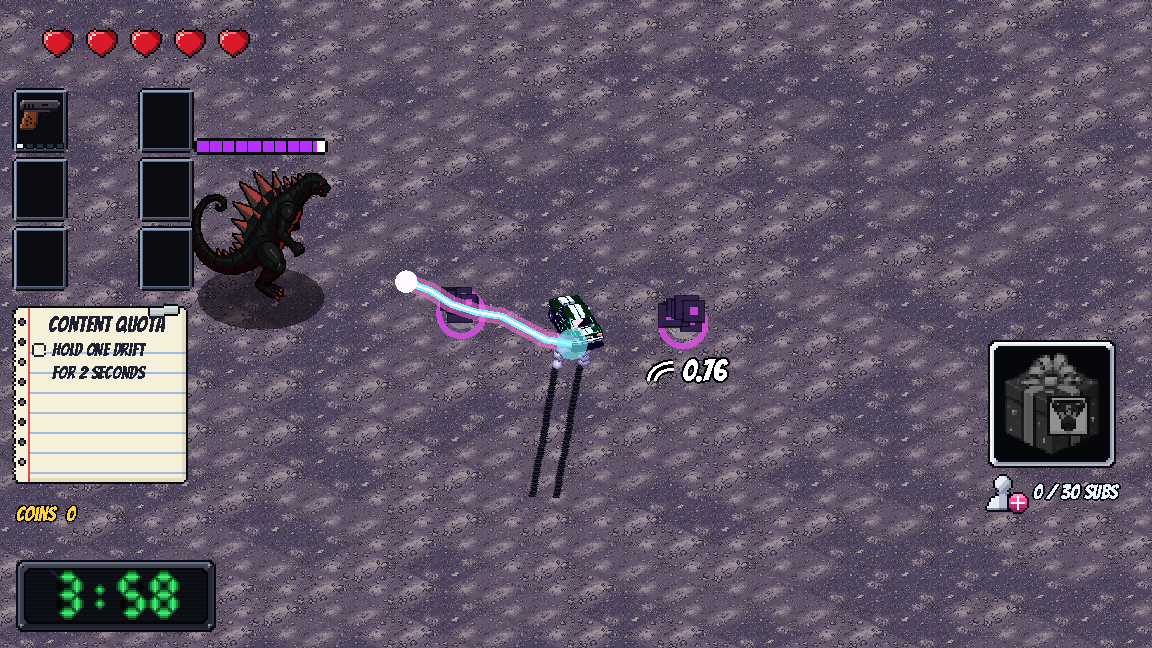
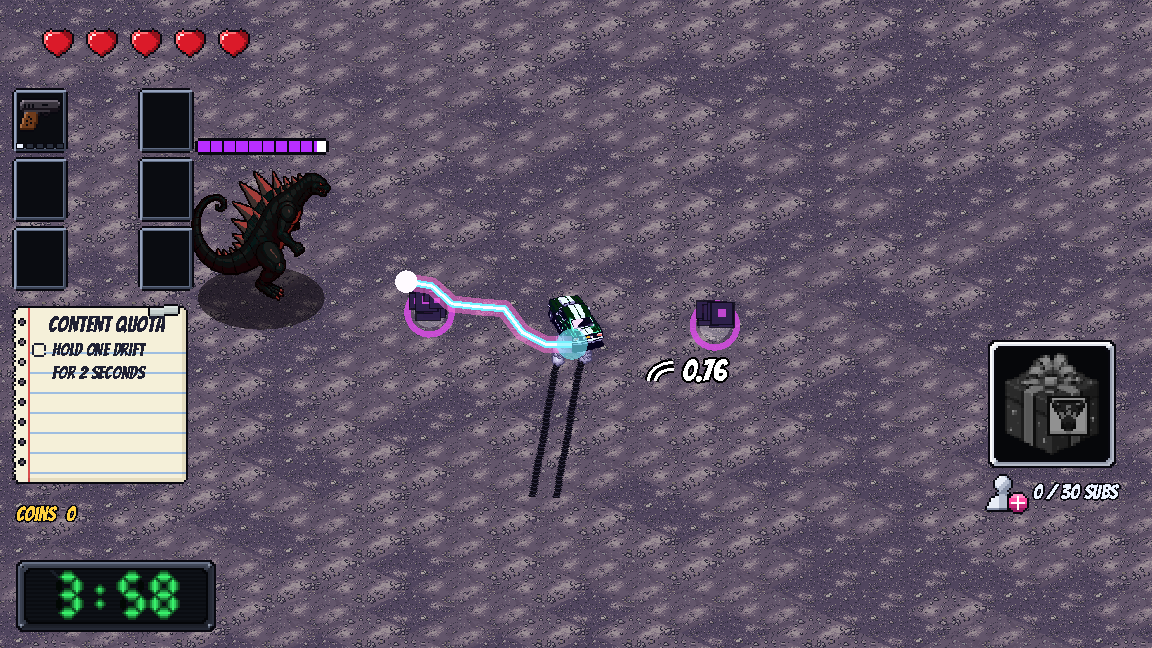
T-539: pair distance 7 -> 9 units (the board's tweak: easier to drift through)
Claude-Session: https://claude.ai/code/session_01N2d996YFpSovFyvGmo19CZ

diff --git a/docs/enemies.md b/docs/enemies.md
@@ -106,7 +106,7 @@ What the game does now, with the numbers in `game/data/enemies.json`, `meteor_at
 
 What the game does now, following the decision "Paired meteors hurt the kaiju", with the numbers in `game/data/enemies.json`, `meteor_attack`. Every number here is a proposal for the board's playtest (reasons: T-539's result notes). How it is built: `game/docs/enemies/meteors.md`, "Paired meteors (T-539)".
 
-- **Pairs:** each attack drops 2 pairs of meteors, 4 in all (`meteors_per_attack` 4, was 3: pairing needs an even number). The two of a pair land **7 units apart**, centre to centre (`pair_distance_units`), so the two 3-unit boulders leave 4 units of free ground between them, four car widths: room to drift through. Both of a pair keep every rule of a single meteor (within 10 units of the car, the warning area, the clearance from other boulders, damage on landing, the 10 s life and the fade), and the ground between them must be open for the car (no building, boulder or prop in the gap). If no pair fits, fewer pairs fall.
+- **Pairs:** each attack drops 2 pairs of meteors, 4 in all (`meteors_per_attack` 4, was 3: pairing needs an even number). The two of a pair land **9 units apart**, centre to centre (`pair_distance_units`), so the two 3-unit boulders leave 6 units of free ground between them, six car widths: room to drift through (raised from 7 after the board's playtest, 2026-11-06: "space the meteor a bit further apart to make it easier to drift through"). Both of a pair keep every rule of a single meteor (within 10 units of the car, the warning area, the clearance from other boulders, damage on landing, the 10 s life and the fade), and the ground between them must be open for the car (no building, boulder or prop in the gap). If no pair fits, fewer pairs fall.
 - **Seeing the pair:** a faint cyan dashed line joins the two circles of a pair on the ground, from the warning on; once both have landed it turns brighter and pulses, to show the pair is ready.
 - **Drifting through:** once both meteors of a pair have landed, a car that is drifting (the car's own drift state, on the ground, the same one the drift marks show) and crosses the line between the two boulders' centres hurts the kaiju by **100** (`pair_damage_to_kaiju`), 1/15 of its 1500 health. Driving through without drifting does nothing. Each pair pays once.
 - **The boulders break:** both boulders of that pair are destroyed at once (gone from the map at the same moment, no fade), with a short break-up: rock chunks in the boulders' navy, purple and magenta fly out and fall, with a magenta flash ring (about half a second).

diff --git a/tasks/T-539-paired-meteors-hurt-kaiju.md b/tasks/T-539-paired-meteors-hurt-kaiju.md
@@ -120,3 +120,11 @@ Documents affected: docs/enemies.md (and game/docs/enemies/meteors.md).
 ### QA, 2026-11-05
 All 6 criteria pass. qa_check: 2 test sets passed (tools set skipped), documents changed, 4 screenshots, 6 marks pass.
 - 2026-11-06, needs-playtest → in-progress: The board: space the meteors of a pair a bit further apart, so it is easier to drift through. No board QA needed: pass QA and merge.
+
+### Enemy Behavior Agent, 2026-11-06: the board's tweak (quick tuning)
+
+The board, after playing: "space the meteor a bit further apart to make it easier to drift through." `pair_distance_units` 7 -> **9** (game/data/enemies.json, meteor_attack; reason in its _comment). The free ground between the two 3-unit boulders goes from 4 units to 6 (six car widths). It still fits: 9 is under the 20-unit diameter of the 10-unit landing radius and above the 4.5 the clearance rule needs. Both meteors of a pair still land within 10 units of the car, and the gap check still runs. In the test, both pairs were found in 12 of 12 seeded attacks. No other number changed.
+- docs/enemies.md Content, 'Paired meteors hurt the kaiju': 9 units apart, 6 units of free ground, citing the board's tweak.
+- test_meteor_pairs.gd: the pairs-found check is now at least 11 of 12 attacks (was 10), so a distance too wide for the landing radius would fail it. The other tests read the distance from the data.
+- Tests (foreground): test_meteor_pairs.gd 10/10, test_kaiju_meteors.gd 28/28, test_enemy_data.gd 10/10, no SCRIPT ERROR.
+- Screenshots retaken at 9 units in art-archive/T-539/screenshots/: meteor_pair_landed_line.png, and also meteor_pair_strike.gif, meteor_pair_strike_strip.png and meteor_pair_strike_beam.png. The fixture's drift still strikes the pair at 2.3 s, kaiju 1500 -> 1400.
